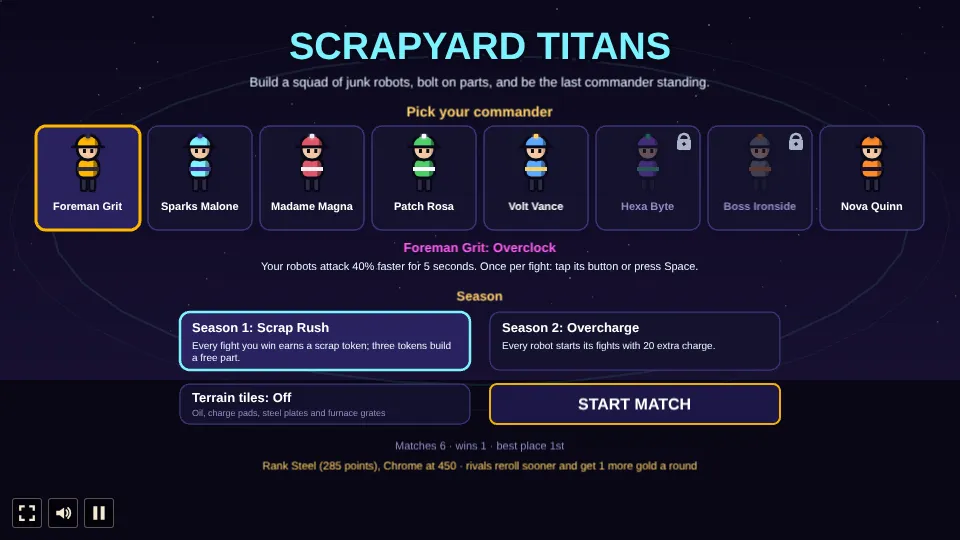
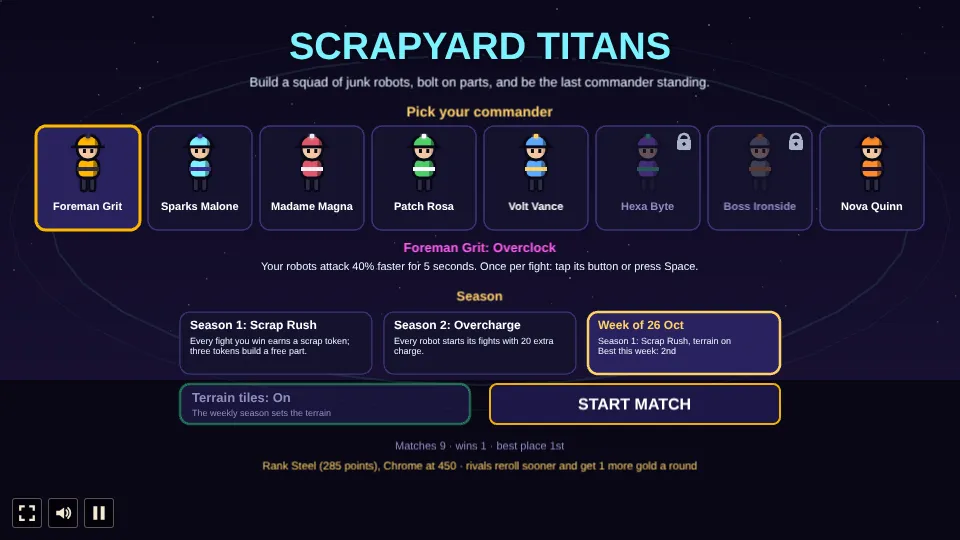
Scrapyard Titans: a weekly season (#642)
A third season card plays this week's rules: the date picks the season and terrain in turn, and the week's best place is kept apart.

Created with Claude Opus 5.5 (low)

Changed region(s): [[0.1875, 0.563, 0.8125, 0.8]]

diff --git a/games/scrapyard-titans/src/scenes/GameScene.ts b/games/scrapyard-titans/src/scenes/GameScene.ts
@@ -9,7 +9,9 @@ import {
   PARTS, RAT, SCRAP_TOKENS_PER_PART, SKILLS, TERRAIN, TRAITS, UNIT_BY_ID, comboOf, isPart,
   type CommanderDef, type DeedId, type PartId, type SetId, type TraitId,
 } from '../game/data';
-import { addRankPoints, doDeeds, fullOrigin, isUnlocked, loadProgress, planDeeds, rankOf, saveProgress } from '../progress';
+import {
+  addRankPoints, doDeeds, fullOrigin, isUnlocked, loadProgress, planDeeds, rankOf, recordWeekly, saveProgress, weekOf, weekStart, weeklyBest, weeklyRules,
+} from '../progress';
 import { STEP_S, traitValue, type BEvent } from '../game/battle';
 import {
   advance, boardCount, boardUnits, buy, buyXp, countTraits, draftPick, endFight, equip, equipPreview, matchOver, moveUnit, newDrops, newMatch,
@@ -20,6 +22,7 @@ import {
 } from '../game/match';
 import { aiDraft, aiPickAugment, aiPlan } from '../game/ai';
 import { ordinal, t } from '../i18n';
+import { formatDate } from '../../../../shared/i18n';
 import { CMD_TEX, INK, UNIT_TEX, bakeAll, cmdKey, itemKey, monsterKey, textureRes, unitKey } from '../art/paint';
 import {
   BENCH, BUTTONS, COMMANDER_HOME, DRAFT_RING, INFO_PANEL, ITEMS_PANEL, PLAYERS_PANEL, RIVAL_HOME, SELL_ZONE, SHOP,
@@ -115,7 +118,7 @@ export class GameScene extends Phaser.Scene {
   /** The match, or null on the menu. Read by the playthrough test. */
   state: Match | null = null;
   /** The menu's choices. */
-  menu = { commander: 0, set: 'scrap' as SetId, terrain: false };
+  menu = { commander: 0, set: 'scrap' as SetId | 'weekly', terrain: false };
   /** The fight's playback speed (1 or 2). */
   speed = 1;
   private t = 0;
@@ -215,9 +218,12 @@ export class GameScene extends Phaser.Scene {
 
   startMatch() {
     const commander = watching ? Math.floor(Math.random() * PLAYER_COMMANDERS.length) : this.menu.commander;
-    const set = watching ? (Math.random() < 0.5 ? 'scrap' : 'neon') : this.menu.set;
-    const terrain = watching ? Math.random() < 0.5 : this.menu.terrain;
-    this.state = newMatch({ set, commander, terrain, watch: watching, rank: watching ? 0 : rankOf(this.progress.points) });
+    // The weekly season takes its season and terrain from the date.
+    const week = !watching && this.menu.set === 'weekly' ? weekOf(Date.now()) : null;
+    const rules = week === null ? null : weeklyRules(week);
+    const set = rules ? rules.set : watching ? (Math.random() < 0.5 ? 'scrap' : 'neon') : (this.menu.set as SetId);
+    const terrain = rules ? rules.terrain : watching ? Math.random() < 0.5 : this.menu.terrain;
+    this.state = newMatch({ set, commander, terrain, watch: watching, rank: watching ? 0 : rankOf(this.progress.points), weekly: week });
     this.recorded = false;
     this.unlockedNow = [];
     this.rankGain = null;
@@ -326,6 +332,7 @@ export class GameScene extends Phaser.Scene {
     if (place === 1) this.progress.wins++;
     this.progress.best = this.progress.best ? Math.min(this.progress.best, place) : place;
     this.rankGain = addRankPoints(this.progress, place);
+    if (this.state?.opts.weekly != null) recordWeekly(this.progress, this.state.opts.weekly, place);
     saveProgress(this.progress);
     this.noteDeeds(place <= 4 ? (place === 1 ? ['topFour', 'champion'] : ['topFour']) : []);
   }
@@ -1354,6 +1361,7 @@ export class GameScene extends Phaser.Scene {
         const rankText = rg.after > rg.before ? t('rankUp', { rank: t(RANKS[rg.after].name) }) : t('rankPoints', { n: rg.gained, rank: t(RANKS[rg.after].name), points: this.progress.points });
         say(VIEW.w / 2, VIEW.fy + 104, rankText, 15, rg.after > rg.before ? C.gold : C.text, { fontStyle: 'bold' }).setOrigin(0.5);
       }
+      if (m.opts.weekly != null && !watching) say(VIEW.w / 2, VIEW.fy + 124, t('weeklyEnd', { place: ordinal(weeklyBest(this.progress, m.opts.weekly)) }), 13, C.gold).setOrigin(0.5);
       if (this.unlockedNow.length) say(VIEW.w / 2, VIEW.fy + 248, t('unlockedList', { names: this.unlockedNow.map((c) => t(c.name)).join(', ') }), 12, C.gold, { fontStyle: 'bold' }).setOrigin(0.5);
       say(VIEW.w / 2, VIEW.fy + 228, t('endStats', { played: this.progress.played, wins: this.progress.wins, best: this.progress.best ? ordinal(this.progress.best) : '-' }), 12, C.dim).setOrigin(0.5);
       this.button(g, { x: VIEW.w / 2 - 90, y: VIEW.fy + 270, w: 180, h: 44 }, t(watching ? 'watchAnother' : 'playAgain'), () => {
@@ -1405,25 +1413,42 @@ export class GameScene extends Phaser.Scene {
       say(VIEW.w / 2, VIEW.fy + 260, t(`${pickedC.unlock!}Unlock`), 11, C.gold, { align: 'center', wordWrap: { width: 640 } }).setOrigin(0.5, 0);
     }
     say(VIEW.w / 2, VIEW.fy + 296, t('season'), 13, C.gold, { fontStyle: 'bold' }).setOrigin(0.5);
-    SETS.forEach((s, i) => {
-      const r = { x: VIEW.w / 2 - 300 + i * 310, y: VIEW.fy + 312, w: 290, h: 58 };
-      const on = this.menu.set === s.id;
+    // The two seasons and this week's, three cards across.
+    const week = weekOf(Date.now());
+    const rules = weeklyRules(week);
+    const best = weeklyBest(this.progress, week);
+    const cards = [
+      ...SETS.map((s) => ({ id: s.id as SetId | 'weekly', name: t(s.name), blurb: t(s.blurb) })),
+      {
+        id: 'weekly' as const,
+        name: t('weeklySeason', { date: formatDate(weekStart(week), { day: 'numeric', month: 'short', timeZone: 'UTC' }) }),
+        blurb: `${t(SETS.find((s) => s.id === rules.set)!.name)}, ${t(rules.terrain ? 'weeklyTerrain' : 'weeklyNoTerrain')}\n${best ? t('weeklyBest', { place: ordinal(best) }) : t('weeklyUnplayed')}`,
+      },
+    ];
+    cards.forEach((c, i) => {
+      const r = { x: VIEW.w / 2 - 300 + i * 204, y: VIEW.fy + 312, w: 192, h: 62 };
+      const on = this.menu.set === c.id;
+      const color = c.id === 'weekly' ? 0xffd166 : C.cyan;
       g.fillStyle(on ? 0x2a2360 : C.panel, 0.95).fillRoundedRect(r.x, r.y, r.w, r.h, 10);
-      g.lineStyle(on ? 2.5 : 1.2, on ? C.cyan : C.panelLine, 1).strokeRoundedRect(r.x, r.y, r.w, r.h, 10);
-      say(r.x + 12, r.y + 8, t(s.name), 13, '#ffffff', { fontStyle: 'bold' });
-      say(r.x + 12, r.y + 28, t(s.blurb), 10, C.text, { wordWrap: { width: r.w - 24 } });
+      g.lineStyle(on ? 2.5 : 1.2, on ? color : C.panelLine, 1).strokeRoundedRect(r.x, r.y, r.w, r.h, 10);
+      say(r.x + 10, r.y + 6, c.name, 12, c.id === 'weekly' ? C.gold : '#ffffff', { fontStyle: 'bold' });
+      say(r.x + 10, r.y + 24, c.blurb, 9, C.text, { wordWrap: { width: r.w - 18 } });
       this.overlayButtons.push({ ...r, run: () => {
-        this.menu.set = s.id;
+        this.menu.set = c.id;
         ui('click');
         this.dirty = true;
       } });
     });
+    // The weekly season sets the terrain itself.
+    const weekly = this.menu.set === 'weekly';
+    const terrainOn = weekly ? rules.terrain : this.menu.terrain;
     const tr = { x: VIEW.w / 2 - 300, y: VIEW.fy + 384, w: 290, h: 40 };
-    g.fillStyle(this.menu.terrain ? 0x2a2360 : C.panel, 0.95).fillRoundedRect(tr.x, tr.y, tr.w, tr.h, 10);
-    g.lineStyle(this.menu.terrain ? 2.5 : 1.2, this.menu.terrain ? 0x39e58c : C.panelLine, 1).strokeRoundedRect(tr.x, tr.y, tr.w, tr.h, 10);
-    say(tr.x + 12, tr.y + 6, t(this.menu.terrain ? 'terrainOn' : 'terrainOff'), 13, '#ffffff', { fontStyle: 'bold' });
-    say(tr.x + 12, tr.y + 24, t('terrainKinds'), 9, C.dim);
+    g.fillStyle(terrainOn ? 0x2a2360 : C.panel, weekly ? 0.5 : 0.95).fillRoundedRect(tr.x, tr.y, tr.w, tr.h, 10);
+    g.lineStyle(terrainOn ? 2.5 : 1.2, terrainOn ? 0x39e58c : C.panelLine, weekly ? 0.4 : 1).strokeRoundedRect(tr.x, tr.y, tr.w, tr.h, 10);
+    say(tr.x + 12, tr.y + 6, t(terrainOn ? 'terrainOn' : 'terrainOff'), 13, weekly ? C.dim : '#ffffff', { fontStyle: 'bold' });
+    say(tr.x + 12, tr.y + 24, t(weekly ? 'weeklySetsTerrain' : 'terrainKinds'), 9, C.dim);
     this.overlayButtons.push({ ...tr, run: () => {
+      if (weekly) return ui('refuse');
       this.menu.terrain = !this.menu.terrain;
       ui('click');
       this.dirty = true;

diff --git a/games/scrapyard-titans/src/progress.ts b/games/scrapyard-titans/src/progress.ts
@@ -1,9 +1,10 @@
 /**
  * What lasts between matches, saved under `scrapyard-titans-stats`: matches played, wins, the best
  * place, the deeds done, which unlock commanders (`CommanderDef.unlock`), and the rank points
- * (`RANKS`). Watched matches never count. No Phaser.
+ * (`RANKS`) and this week's best place in the weekly season. Watched matches never count. No
+ * Phaser.
  */
-import { MAX_LEVEL, PLAYER_COMMANDERS, RANKS, RANK_POINTS, TRAITS, type CommanderDef, type DeedId, type OriginId } from './game/data';
+import { MAX_LEVEL, PLAYER_COMMANDERS, RANKS, RANK_POINTS, TRAITS, WEEKLY_ROTATION, type CommanderDef, type DeedId, type OriginId } from './game/data';
 import { allUnits, boardUnits, countTraits, type Match } from './game/match';
 
 const STORE_KEY = 'scrapyard-titans-stats';
@@ -16,15 +17,18 @@ export interface Progress {
   deeds: DeedId[];
   /** Rank points, from top-four finishes; they never go down. */
   points: number;
+  /** The best place in the weekly season, for the week it was played (`weekOf`). */
+  weekly: { week: number; best: number } | null;
 }
 
 export function loadProgress(): Progress {
   try {
     const s = JSON.parse(localStorage.getItem(STORE_KEY) ?? '{}');
     const deeds = Array.isArray(s.deeds) ? DEEDS.filter((d) => s.deeds.includes(d)) : [];
-    return { played: Number(s.played) || 0, wins: Number(s.wins) || 0, best: Number(s.best) || 0, deeds, points: Math.max(0, Number(s.points) || 0) };
+    const weekly = s.weekly && Number.isFinite(s.weekly.week) && Number(s.weekly.best) > 0 ? { week: Number(s.weekly.week), best: Number(s.weekly.best) } : null;
+    return { played: Number(s.played) || 0, wins: Number(s.wins) || 0, best: Number(s.best) || 0, deeds, points: Math.max(0, Number(s.points) || 0), weekly };
   } catch {
-    return { played: 0, wins: 0, best: 0, deeds: [], points: 0 };
+    return { played: 0, wins: 0, best: 0, deeds: [], points: 0, weekly: null };
   }
 }
 
@@ -49,6 +53,25 @@ export function addRankPoints(p: Progress, place: number) {
   const gained = RANK_POINTS[place] ?? 0;
   p.points += gained;
   return { gained, before, after: rankOf(p.points) };
+}
+
+const WEEK_MS = 7 * 24 * 3600 * 1000;
+/** Monday 5 January 1970, the start of week 0, in UTC. */
+const FIRST_MONDAY = Date.UTC(1970, 0, 5);
+
+/** The number of the week (Monday to Sunday, UTC) a time falls in. */
+export const weekOf = (now: number) => Math.floor((now - FIRST_MONDAY) / WEEK_MS);
+/** The Monday a week starts on. */
+export const weekStart = (week: number) => FIRST_MONDAY + week * WEEK_MS;
+/** The weekly season's rules for a week. */
+export const weeklyRules = (week: number) => WEEKLY_ROTATION[((week % WEEKLY_ROTATION.length) + WEEKLY_ROTATION.length) % WEEKLY_ROTATION.length];
+/** This week's best weekly place, or 0 if it hasn't been played this week. */
+export const weeklyBest = (p: Progress, week: number) => (p.weekly?.week === week ? p.weekly.best : 0);
+
+/** Keeps a weekly match's place if it is this week's best. */
+export function recordWeekly(p: Progress, week: number, place: number) {
+  const best = weeklyBest(p, week);
+  p.weekly = { week, best: best ? Math.min(best, place) : place };
 }
 
 export const isUnlocked = (p: Progress, c: CommanderDef) => !c.unlock || p.deeds.includes(c.unlock);

diff --git a/games/scrapyard-titans/src/howToPlay.ts b/games/scrapyard-titans/src/howToPlay.ts
@@ -19,7 +19,7 @@ const en: HowToPlay = {
     { input: '1, 2 or 3', action: 'Pick a power card when one is offered' },
   ],
   loop: [
-    'Pick a commander, a season, and whether the board has terrain tiles.',
+    'Pick a commander, a season (or this week’s), and whether the board has terrain tiles.',
     'Buy robots from the shop with your gold.',
     'Place them on your half of the board: tanks in front, shooters behind.',
     'Press FIGHT! and watch them battle on their own.',
@@ -36,6 +36,7 @@ const en: HowToPlay = {
     'On the Scrap Rat round, tap the rat to zap gold out of it before it escapes.',
     'Five more commanders unlock through deeds, like a top-four finish or a 3-star robot; pick a locked one on the menu to see how.',
     'Top-four finishes earn rank points; each new rank makes the rivals play a little harder.',
+    'The third season card is this week’s: its season and terrain change every Monday, and it keeps its own best place.',
   ],
 };
 
@@ -56,7 +57,7 @@ const de: HowToPlay = {
     { input: '1, 2 oder 3', action: 'Eine Machtkarte wählen, wenn eine angeboten wird' },
   ],
   loop: [
-    'Wähle einen Kommandanten, eine Saison und ob das Brett Geländefelder hat.',
+    'Wähle einen Kommandanten, eine Saison (oder die der Woche) und ob das Brett Geländefelder hat.',
     'Kaufe mit deinem Gold Roboter im Shop.',
     'Stelle sie auf deine Bretthälfte: Tanks nach vorn, Schützen nach hinten.',
     'Drücke KAMPF! und sieh zu, wie sie von selbst kämpfen.',
@@ -73,6 +74,7 @@ const de: HowToPlay = {
     'Tippe in der Schrottratten-Runde die Ratte an, um Gold aus ihr zu schocken, bevor sie entkommt.',
     'Fünf weitere Kommandanten schaltest du mit Taten frei, etwa einem Platz unter den ersten vier oder einem Roboter mit 3 Sternen; wähle im Menü einen gesperrten, um zu sehen, wie.',
     'Plätze unter den ersten vier bringen Rangpunkte; jeder neue Rang lässt die Rivalen etwas härter spielen.',
+    'Die dritte Saisonkarte ist die der Woche: Saison und Gelände wechseln jeden Montag, und sie hat ihren eigenen besten Platz.',
   ],
 };
 

diff --git a/games/scrapyard-titans/src/i18n/de.ts b/games/scrapyard-titans/src/i18n/de.ts
@@ -295,6 +295,13 @@ const de: Translation<typeof en> = {
   rankNext: ', {rank} ab {points}',
   rankUp: 'Rangaufstieg: {rank}!',
   rankPoints: '+{n} Rangpunkte · {rank} ({points})',
+  weeklySeason: 'Woche ab {date}',
+  weeklyTerrain: 'mit Gelände',
+  weeklyNoTerrain: 'ohne Gelände',
+  weeklyBest: 'Bester Platz diese Woche: {place}',
+  weeklyUnplayed: 'Diese Woche noch nicht gespielt',
+  weeklySetsTerrain: 'Die Wochensaison legt das Gelände fest',
+  weeklyEnd: 'Wochensaison: bester Platz diese Woche {place}',
   menuStats: 'Partien {played} · Siege {wins} · bester Platz {best}',
 
   // HUD

diff --git a/games/scrapyard-titans/src/game/data.ts b/games/scrapyard-titans/src/game/data.ts
@@ -44,6 +44,14 @@ export const SETS: SetDef[] = [
   },
 ];
 
+/** The weekly season's rules, one a week in turn (`weekOf` in `progress.ts`): every season with and without terrain. */
+export const WEEKLY_ROTATION: { set: SetId; terrain: boolean }[] = [
+  { set: 'scrap', terrain: true },
+  { set: 'neon', terrain: false },
+  { set: 'scrap', terrain: false },
+  { set: 'neon', terrain: true },
+];
+
 /** Scrap tokens a Scrap Rush win pays, and how many build a part. */
 export const SCRAP_TOKENS_PER_PART = 3;
 /** Extra starting charge every robot gets in the Overcharge season. */

diff --git a/games/scrapyard-titans/src/i18n/en.ts b/games/scrapyard-titans/src/i18n/en.ts
@@ -295,6 +295,13 @@ const en = {
   rankNext: ', {rank} at {points}',
   rankUp: 'Rank up: {rank}!',
   rankPoints: '+{n} rank points · {rank} ({points})',
+  weeklySeason: 'Week of {date}',
+  weeklyTerrain: 'terrain on',
+  weeklyNoTerrain: 'no terrain',
+  weeklyBest: 'Best this week: {place}',
+  weeklyUnplayed: 'Not played this week yet',
+  weeklySetsTerrain: 'The weekly season sets the terrain',
+  weeklyEnd: 'Weekly season: best this week {place}',
   menuStats: 'Matches {played} · wins {wins} · best place {best}',
 
   // HUD

diff --git a/games/scrapyard-titans/src/game/match.ts b/games/scrapyard-titans/src/game/match.ts
@@ -110,6 +110,8 @@ export interface MatchOptions {
   watch: boolean;
   /** The player's saved rank (`RANKS`), which toughens the rivals; 0 plays as designed. */
   rank: number;
+  /** The week number of a weekly season match (`weekOf`), or null for a season picked on the menu. */
+  weekly: number | null;
 }
 
 export interface Match {

diff --git a/games/scrapyard-titans/AGENTS.md b/games/scrapyard-titans/AGENTS.md
@@ -79,6 +79,11 @@ Implemented today:
 - Part preview: with a part or item selected or dragged, `buildPreview` tags each robot with
   `equipPreview(id, robot)` (the finished item, the part, or full), and the info panel lists the
   part's six recipes.
+- Weekly season: the menu's third season card (`menu.set` `'weekly'`). `weekOf(Date.now())` (UTC
+  weeks from Monday) picks `weeklyRules(week)` from `WEEKLY_ROTATION` (season and terrain), which
+  `startMatch` uses instead of the menu's (the terrain toggle is greyed out), and passes the week as
+  `MatchOptions.weekly`. `record` keeps the week's best place in `Progress.weekly` (`recordWeekly`);
+  the card and the end screen show it (`weeklyBest`). A new week starts unplayed.
 - Rank ladder (`RANKS`, `RANK_POINTS` in `data.ts`): `Progress.points` grow by a top-four place in
   `record` (`addRankPoints`) and never drop; `rankOf(points)` gives the rank, which `startMatch`
   passes as `MatchOptions.rank` (0 under `?watch`). The rank gives each rival `gold` more a round
@@ -86,7 +91,7 @@ Implemented today:
   reroll from stage `rollFrom` while holding more than `rollAbove` gold (seat 0 always uses Rust's).
   Rank 0 plays exactly as before. The menu shows it under the stats, the end screen the points won
   or the rank up.
-- Progress (matches, wins, best place, `deeds` and rank `points`) saved under `scrapyard-titans-stats`
+- Progress (matches, wins, best place, `deeds`, rank `points` and `weekly` best) saved under `scrapyard-titans-stats`
   (`progress.ts`, `loadProgress`/`saveProgress`); watched matches never count.
 
 Missing or rough:
@@ -95,7 +100,7 @@ Missing or rough:
 - AI rivals use a simple scored plan (`aiPlan`). Balance is checked with AI-only matches (see
   Gotchas); every origin's average place sits between about 4.0 and 4.9 of 8, and matches end
   around stages 5 and 6.
-- Seasons are picked on the menu; nothing rotates them.
+- Only the weekly season rotates; the two plain seasons are picked on the menu.
 
 ## Architecture
 
@@ -114,7 +119,7 @@ File map (`src/`):
   one gets its German entry (and a US one if its spelling differs) in the same PR. The watch
   panel's title and `aiLog` lines stay English, with the names inside them translated.
 - `progress.ts`: what lasts between matches (`Progress`: stats, deeds, rank points), `rankOf`,
-  `addRankPoints`, `isUnlocked`,
+  `addRankPoints`, `weekOf`, `weekStart`, `weeklyRules`, `weeklyBest`, `recordWeekly`, `isUnlocked`,
   `doDeeds` (saves new deeds, returns the commanders they unlock), `planDeeds`, `fullOrigin`. No
   Phaser.
 - `audio.ts`: the songs (`PLAN_SONG`, `FIGHT_SONG`) and the sound table (`play`, typed `Sfx`); see
@@ -231,7 +236,7 @@ greyed-out button or shop card (`button` pushes a refusal for them).
   `layout.ts` (`SHOP`, `BENCH`, `BUTTONS.fight`, `BOARD_VIEW`), the menu's START MATCH rect in
   `buildMenu`, `ECONOMY.startGold`, and round 1-1's monsters (`MONSTERS.mite`), which every 1-cost
   robot must beat alone.
-- Screenshots: `docs/screenshots/menu.webp` is from a scratch run with three deeds and 285 rank points saved; `fight.webp` (also
+- Screenshots: `docs/screenshots/menu.webp` is from a scratch run with three deeds, 285 rank points and a weekly best saved, the weekly season picked; `fight.webp` (also
   `cover.png`), `draft.webp` and `scrap-rat.webp` are from a scratch `?watch` run with the watch
   panel hidden; `scout.webp`, `part-preview.webp` and `damage-meter.webp` from a scratch run that
   plays round 1-1 with real clicks; `german-result.webp` is the test's `3-result` run with a

diff --git a/games/scrapyard-titans/README.md b/games/scrapyard-titans/README.md
@@ -90,6 +90,10 @@ terrain tiles. The plan phase lasts 30 seconds; when it runs out the fight start
   seconds) for level 9 and Nova Quinn (Air Strike: 140 damage to every enemy) for a won match. A
   locked commander's card says what unlocks it. The rivals use their skills on their own and call
   out a taunt at the start of a fight.
+- **Weekly season.** The third season card is this week's: the date (weeks run Monday to Sunday,
+  UTC) picks one of the two seasons with or without terrain, in turn, so every combination comes
+  round once a month. The card shows the rules and this week's best place, which is saved apart from
+  the overall best.
 - **Rank ladder.** A saved rank that only goes up: a finish in the top four earns rank points (50,
   35, 25 or 15), and the rank sets how hard the rivals play. Rust (0 points) is the game as
   designed; Iron (100) rivals reroll for copies sooner, Steel (250) also get 1 more gold a round,
@@ -131,7 +135,7 @@ shows your seat's fights on the board.
 
 ## Screenshots
 
-![The menu: eight commanders (some locked until their deed is done), two seasons, the terrain toggle and the rank](docs/screenshots/menu.webp)
+![The menu: eight commanders (some locked until their deed is done), two seasons and the weekly one, the terrain toggle and the rank](docs/screenshots/menu.webp)
 
 ![A draft round: robots carrying parts on the board, picked lowest health first](docs/screenshots/draft.webp)
 
